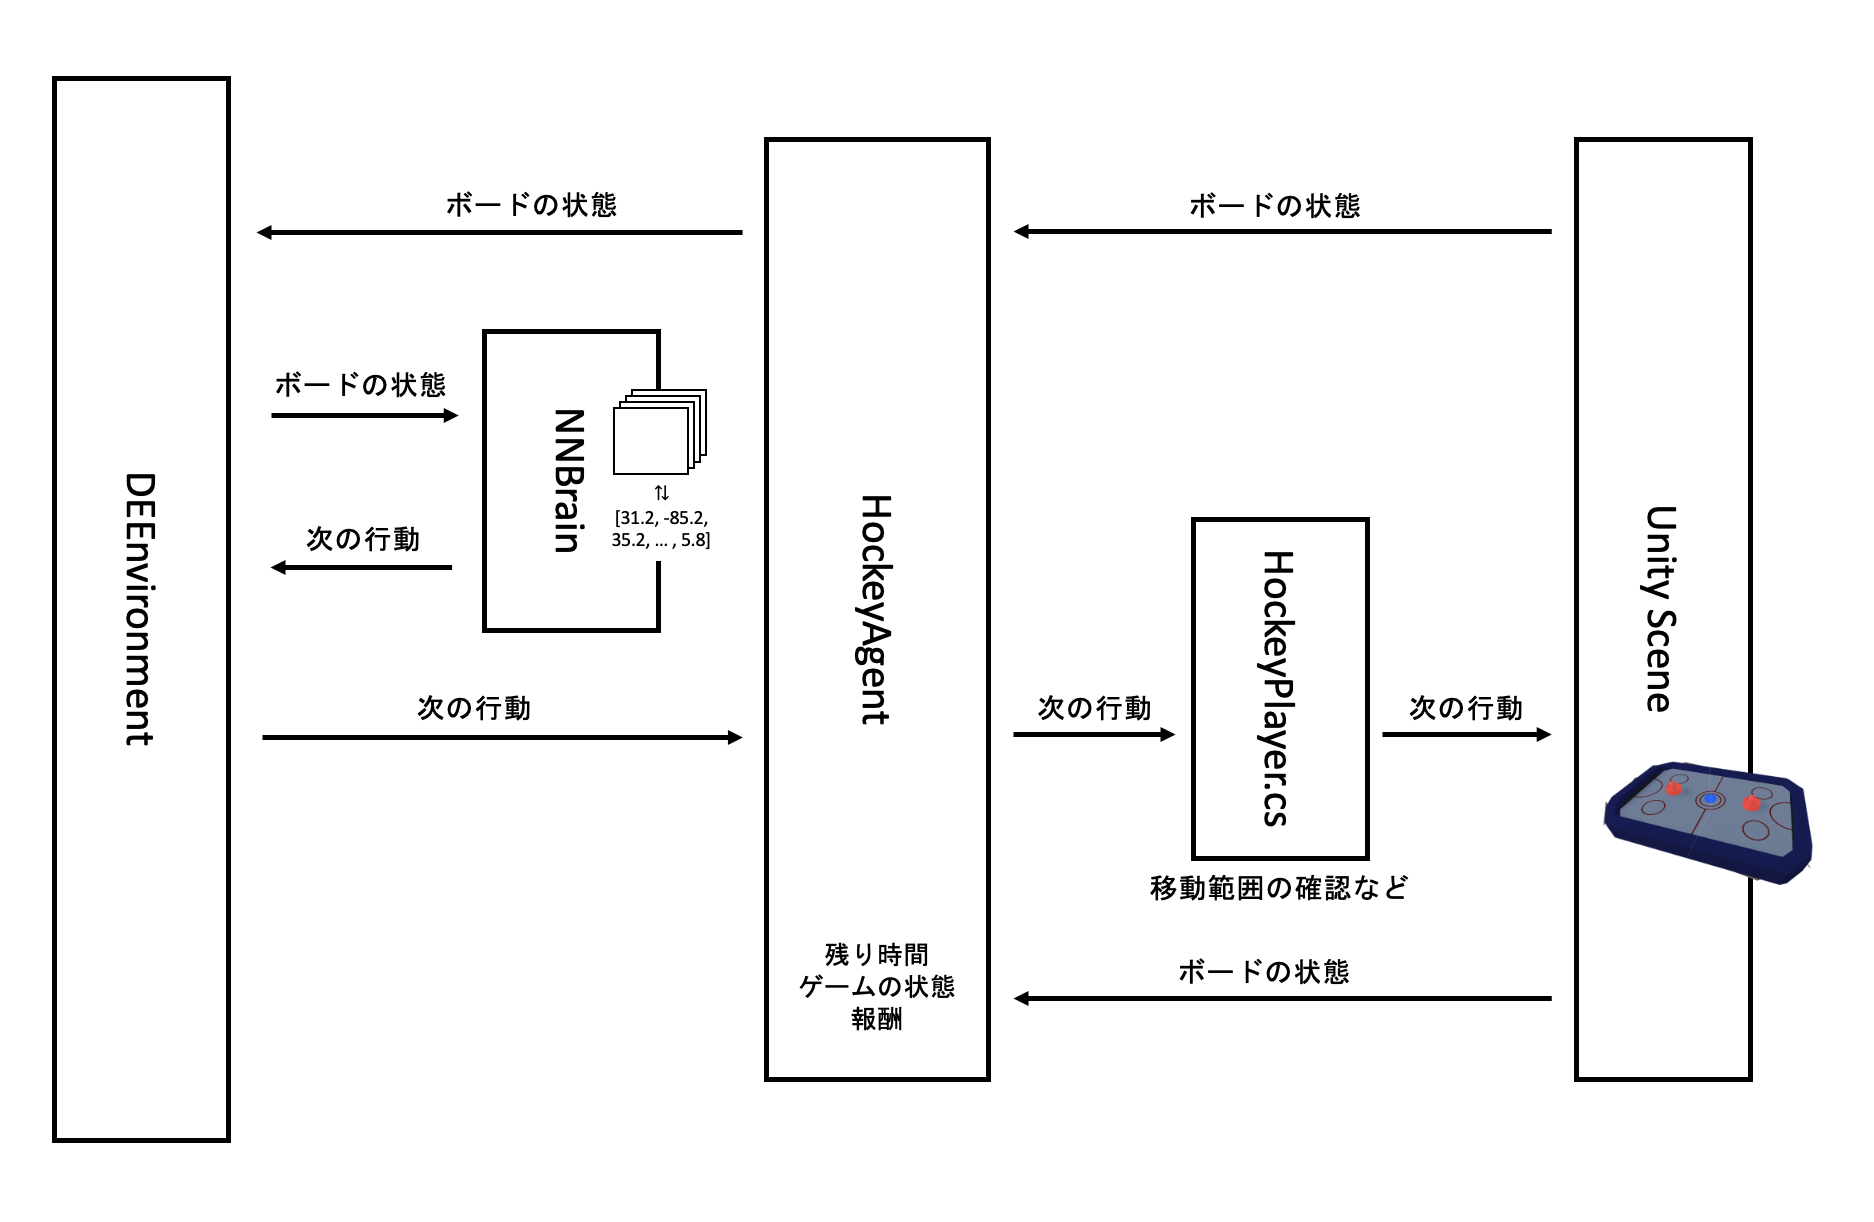
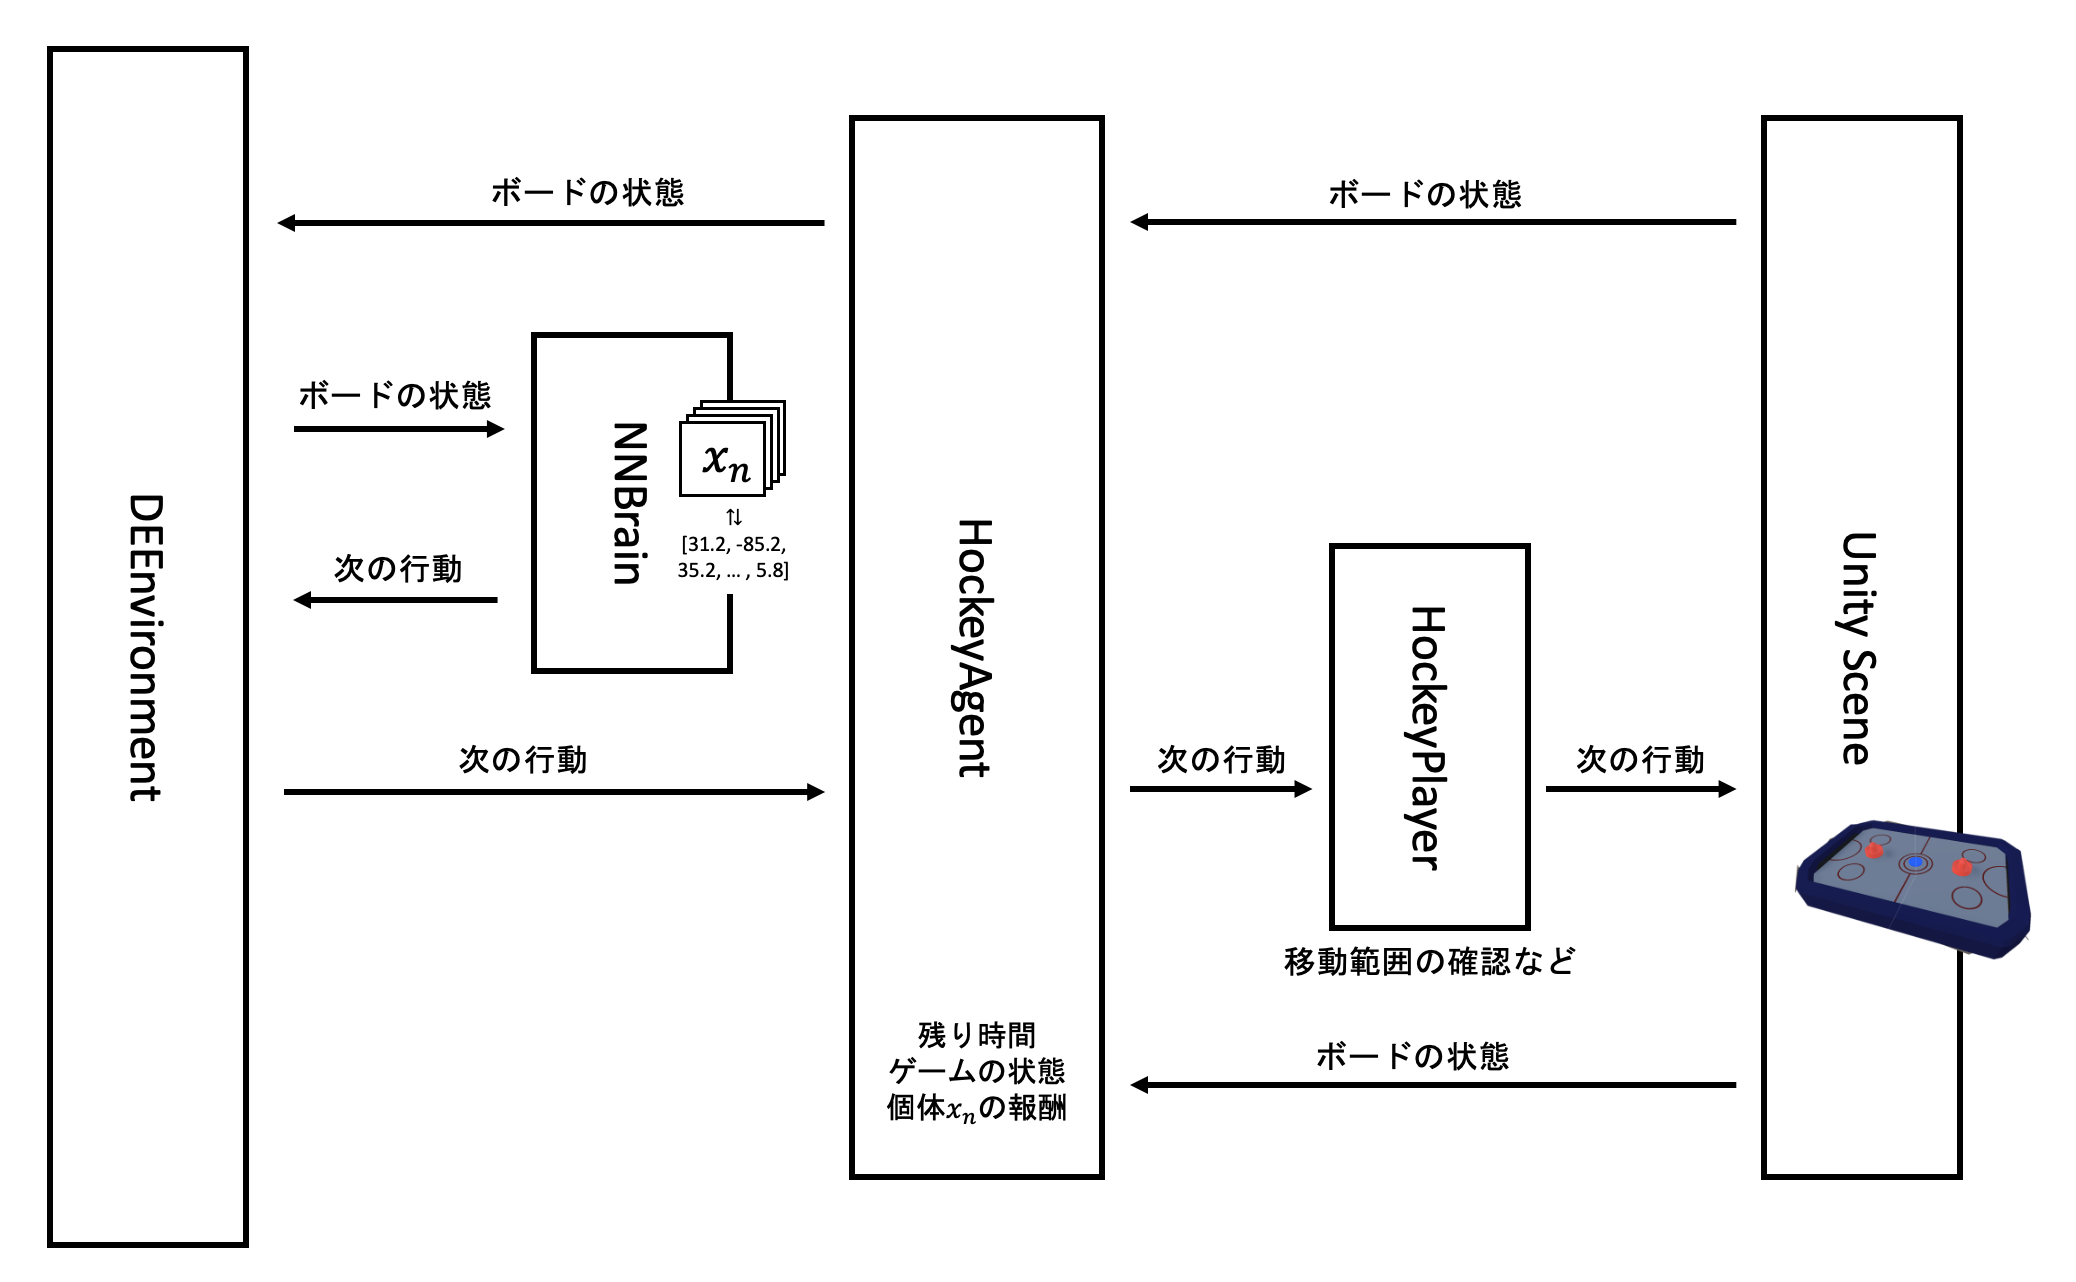
update readme

Changed region(s): [[0.0, 0.0311, 0.9904, 0.9951]]

diff --git a/README.md b/README.md
@@ -36,14 +36,18 @@ $ git clone https://github.com/trombiano1/airhockey.proj.git
 
 <img src="Pictures/nndna.png" width="300">
 
-また, アルゴリズムの**Selection**では個体同士を比較する必要があります. このプログラムでは世代を生成した後に個体を2つずつ対戦させ, その成績に応じて固体に報酬を与えます. 全ての個体に報酬を与えた後, その報酬の大小で個体の優劣を決めています.
+差分進化の管理は`DEEnvironment`が行っています. 
 
+### Mutation, Crossover
+まず, `DEEnvironment`が個体1, 個体2, 個体3をランダムに選びます. それぞれのDNAをx1, x2, x3とします.
+`DEEnvironment`は`NNBrain`にx1, x2, x3を送り, `NNBrain`がx1 += F * (x3 - x2)を計算します. これが子供のDNAとなります. 
 
-差分進化の管理は`DEEnvironment.cs`が行っています. 
+スケーリングパラメータFは`mutationScalingFactor`という値として`DEEnvironment.cs`内で定義されています.　
 
-`DEEnvironment.cs`の`FixedUpdate()`はまず100個の個体を生成し, 2個ずつ対戦させます.
+なお, この実験では交叉率`crossrate`が定められており, その割合の子供が新しい遺伝子を持ちます. その他の子供は親の遺伝子をそのまま引き継ぎます.
 
-### 対戦
+これを繰り返し, 子供を生成していきます. 今は100個の子供を生成する設定になっています.
+### 対戦 (Selection)
 `DEEnvironment`は`HockeyAgent`を呼んでボードの状態やプレーヤーの位置などの情報を取得してもらい, 情報を`NNBrain`に送ります.　
 
 `NNBrain`は個体のNNとボードの状況を受け取り, そのNNを使って次に取るべき行動`action`を計算して返します.
@@ -55,22 +59,12 @@ $ git clone https://github.com/trombiano1/airhockey.proj.git
 最後に, `HockeyAgent`はボードの状態をもとに個体に対して報酬を与えます. 報酬の値は現在以下のように決まっています.
 
 - 1フレームごとに, パックの正面にいればいるほど報酬を追加します
-- ゴールを決めると大きな報酬(1000)を足します
+- ゴールを決めると大きな報酬(1000)を足します 
 - ゴールを決められると大きな報酬(1000)を引きます
 
-この操作を繰り返すことで対戦が進んでいきます. 時間切れになると対戦が止まり, 報酬値が決まります.
+この操作を繰り返すことで対戦が進んでいきます. 時間切れになると対戦が止まり, 2つの個体に対して報酬値が決まります. これを繰り返し, 全ての個体に対して報酬値が決まります.
 
 <img src="Pictures/vs.png" width="600">
-
-- `NNBrain.cs`\
-  **Crossover**で
-
-
-NNBrainがその個体のNNと現在のボードの状態をもとに次の行動を決めます. ゲームの勝敗などに応じて個体に与える報酬が定められ, その値に基づき4.の評価が行われて次の世代が生成されます.
-
-交叉率`crossrate`が定められており, その割合の子供が2.で計算された新しい遺伝子を持ちます. その他の子供は親の遺伝子をそのまま引き継ぎます.
-
-2.の計算と4.の比較は`NNBrain`が行っており, 残りの操作は`DEEnvironment`が担当しています. また, スケーリングパラメータは`mutationScalingFactor`という値として`DEEnvironment.cs`内で定義されています.
 
 Sceneフォルダ内のHockeyGameを開き, 画面上部の再生ボタンを押すと学習が始まります. 再生中にはGame画面に表示されるスライダでプログラムの実行速度を調整できます. コンピュータへの負荷を少なくしたい場合は、描画をオフにすることもできます。
 
